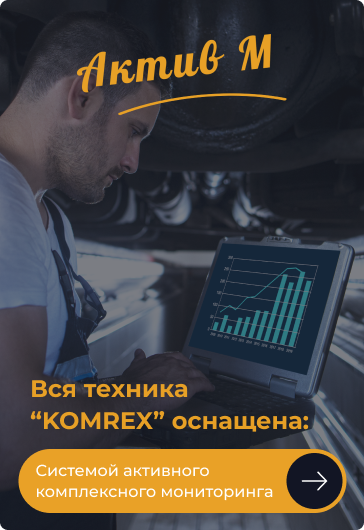
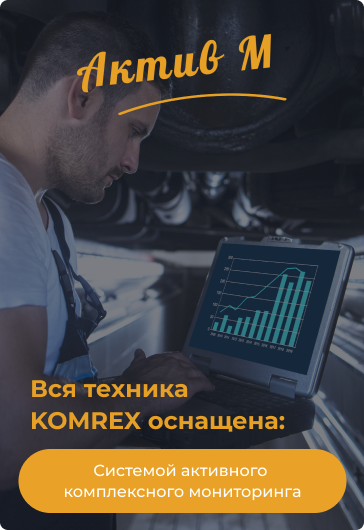
fixes

Changed region(s): [[0.0907, 0.8453, 0.9368, 0.966], [0.0907, 0.7547, 0.8462, 0.8151]]

diff --git a/public/css/app.css b/public/css/app.css
@@ -157,7 +157,7 @@ button.btn.btn-secondary.white {
 }
 
 .modal-dialog {
-    border-radius: 30px;
+    border-radius: 20px;
 }
 
 .modal.styled .modal-dialog {
@@ -267,11 +267,22 @@ button.btn.btn-secondary:hover,
 
 #main-image.active-m .provide {
     width: 100%;
-    height: 150px;
+    height: 160px;
     padding: 20px;
     display: flex;
-    align-items: end;
-    border: 1px solid white;
+    flex-direction: column;
+    justify-content: space-between;
+    border: 1px solid #E9A127;
+    border-radius: 24px;
+}
+
+#main-image.active-m .provide img {
+    width: 43px;
+    height: 43px;
+}
+
+#main-image.active-m .provide p {
+    color: #E9A127;
 }
 
 #menu-container {
@@ -614,12 +625,14 @@ input:not(.form-check-input) {
     background-color: white;
     color: #121524 !important;
     padding: 8px 20px !important;
-    border-radius: 50px !important;
+    border-radius: 20px !important;
 }
 
 textarea {
-    border-radius: 50px !important;
-    padding: 20px !important;
+    height: 150px;
+    border-radius: 20px !important;
+    padding: 10px !important;
+    font-size: 20px !important;
 }
 
 .form-check-input:checked {

diff --git a/resources/views/blocks/feedback_form_block.blade.php b/resources/views/blocks/feedback_form_block.blade.php
@@ -1,13 +1,49 @@
 <form method="POST" action="{{ route('callback') }}" class="feedback-form {{ $addClass ?? '' }} wow animate__animated animate__slideInRight">
     @csrf
-    <h2>{{ trans('content.you_have_a_question_head') }}</h2>
-    <p>{{ trans('content.you_have_a_question_text') }}</p>
-    @include('blocks.feedback_fields_block',[
-        'hiddenInputName' => $hiddenInputName,
-        'hiddenId' => $hiddenId,
-        'buttonAddClass' => '',
-        'primary' => true,
-        'button_text' => trans('content.request_a_call_back'),
-        'arrowIcon' => 'arrow_cir_to_right_dark.svg'
-    ])
+    <div class="row">
+        <div class="col-lg-6 col-sm-12">
+            <h2>{!! trans('content.you_have_a_question_head') !!}</h2>
+            <p>{!! trans('content.you_have_a_question_text') !!}</p>
+        </div>
+        <div class="col-lg-6 col-sm-12">
+            @include('blocks.hidden_id_block',['name' => $hiddenInputName, 'id' => $hiddenId])
+            <div class="mb-2">
+                @include('blocks.input_block',[
+                    'type' => 'text',
+                    'name' => 'name',
+                    'placeholder' => trans('content.your_name'),
+                    'ajax' => true
+                ])
+            </div>
+            <div class="mb-2">
+                @include('blocks.input_block',[
+                    'type' => 'text',
+                    'name' => 'phone',
+                    'placeholder' => trans('content.phone'),
+                    'ajax' => true
+                ])
+            </div>
+            <div class="mb-2">
+                @include('blocks.textarea_block',[
+                    'name' => 'comments',
+                    'placeholder' => trans('content.comments'),
+                    'value' => '',
+                    'simple' => true
+                ])
+            </div>
+            @include('blocks.checkbox_block', [
+                'name' => 'i_agree',
+                'label' => trans('content.agree'),
+                'ajax' => true
+            ])
+            @include('blocks.button_block',[
+                'addClass' => 'w-100 w-60',
+                'disabled' => true,
+                'primary' => true,
+                'buttonType' => 'submit',
+                'buttonText' => trans('content.order_callback'),
+                'arrowIcon' => 'arrow_cir_to_right_dark.svg'
+            ])
+        </div>
+    </div>
 </form>

diff --git a/resources/lang/ru/content.php b/resources/lang/ru/content.php
@@ -9,7 +9,7 @@ return [
     'yes' => 'Да',
     'no' => 'Нет',
     'close' => 'Закрыть',
-    'you_have_a_question_text' => 'Персональный менеджер готов ответить на все ваши вопросы в удобное для вас время',
+    'you_have_a_question_text' => 'Персональный менеджер готов ответить на все ваши<br>вопросы в удобное для вас время',
     'we_will_contact_you' => 'Мы обязательно свяжемся с Вами в ближайшее время!',
     'get_service' => 'Получить услугу',
     'komrex_offers' => 'КОМРЭКС предлагает',
@@ -18,13 +18,14 @@ return [
     'komrex_technics' => 'Техника KOMREX',
     'current_offer' => 'Текущее предложение',
     'supply_of_individual_units' => 'Поставка отдельных узлов и агрегатов для спецтехники.',
-    'you_have_a_question_head' => 'Есть вопрос? Мы вам перезвоним!',
+    'you_have_a_question_head' => 'Есть вопрос?<br>Мы вам перезвоним!',
     'your_name' => 'Ваше имя',
     'phone' => 'Телефон',
     'request_a_call_back' => 'Обратный звонок',
     'service_solutions' => 'Сервисные решения',
     'order_consulting' => 'Заказать консалтинг',
     'order_service' => 'Заказать услугу',
+    'order_callback' => 'Заказать обратный звонок',
     'list_of_events' => 'Список мероприятий',
     'write_to_the_company' => 'Написать в компанию',
     'presentation_of_the_company' => 'Презентация компании',
@@ -64,4 +65,5 @@ return [
     'number_for_incoming_calls' => 'Номер для входящих звонков КОМРЭКС',
     'comments' => 'Комментарии',
     'privacy' => 'Политика конфиденциальности',
+    'agree' => 'Я выражаю <a href="#" data-bs-toggle="modal" data-bs-target="#personal-data-modal">согласие на передачу и обработку персональных данных</a> в соответствии с <a href="'.route('privacy').'" target="_blank">Политикой конфиденциальности*</a>',
 ];

diff --git a/resources/views/blocks/feedback_fields_block.blade.php b/resources/views/blocks/feedback_fields_block.blade.php
@@ -37,7 +37,7 @@
     <div class="col-12 ps-4 pt-3">
         @include('blocks.checkbox_block', [
             'name' => 'i_agree',
-            'label' => 'Я выражаю <a href="#" data-bs-toggle="modal" data-bs-target="#personal-data-modal">согласие на передачу и обработку персональных данных</a> в соответствии с <a href="'.route('privacy').'" target="_blank">Политикой конфиденциальности*</a>',
+            'label' => trans('content.agree'),
             'ajax' => true
         ])
     </div>

diff --git a/resources/views/active_monitoring.blade.php b/resources/views/active_monitoring.blade.php
@@ -17,7 +17,8 @@
                 @foreach ($provides as $provide)
                     <div class="col-{{ round(12/count($provides)) }}">
                         <div class="provide">
-                            <p class="m-0 text-white w-60">{{ $provide->text }}</p>
+                            <img src="{{ asset('images/check_icon.svg') }}" />
+                            <p class="m-0 w-60">{{ $provide->text }}</p>
                         </div>
                     </div>
                 @endforeach
